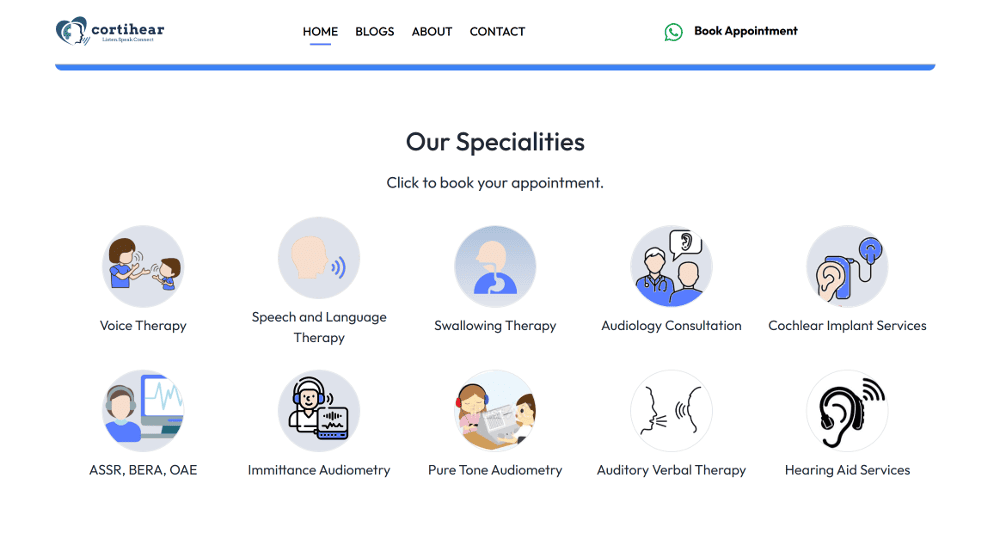
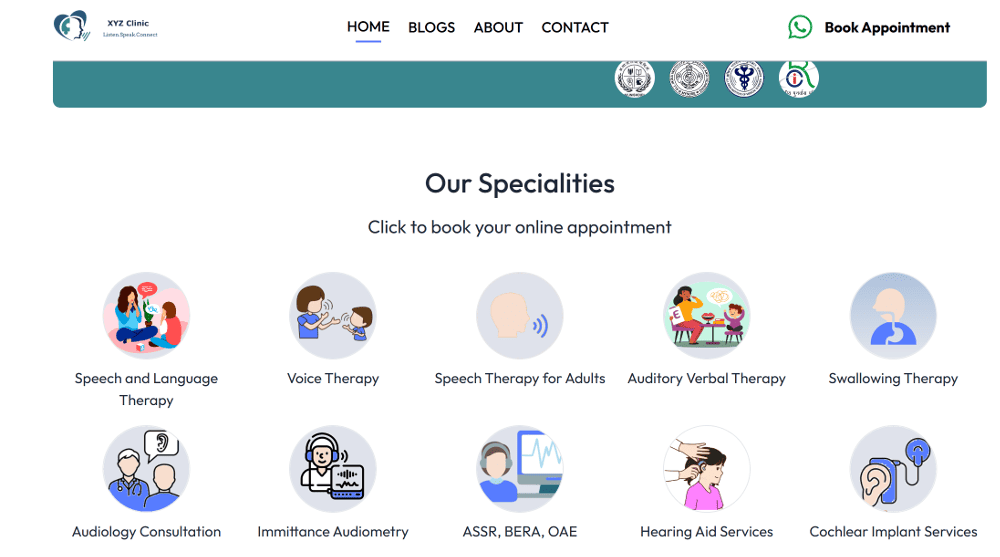
proj img updated

diff --git a/src/constants/index.js b/src/constants/index.js
@@ -70,7 +70,7 @@ export const PROJECTS = [
 	githubPage: "https://lokeshloki3.github.io/reactportfolio/",
   },
   {
-    title: "Cortihear - Dr Appointment",
+    title: "XYZ Clinic Appointment",
     image: project5,
     description:
     "Created a single-page React website for Doctor appointments, featuring blog categories, a blog page, testimonial slides, and a 'Book Appointment' popup form that stores data in Google Sheets via a POST request using Google Apps Script. The webpage is also mobile-responsive.",
